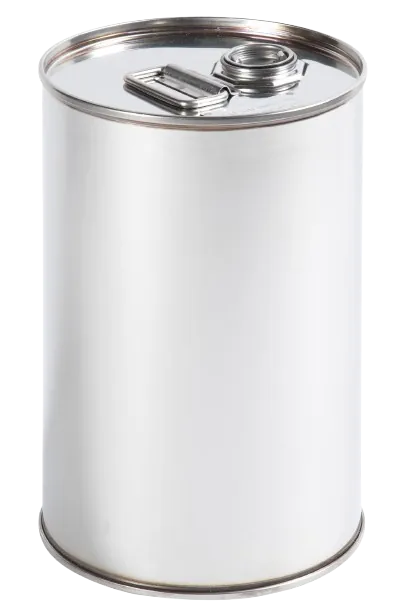
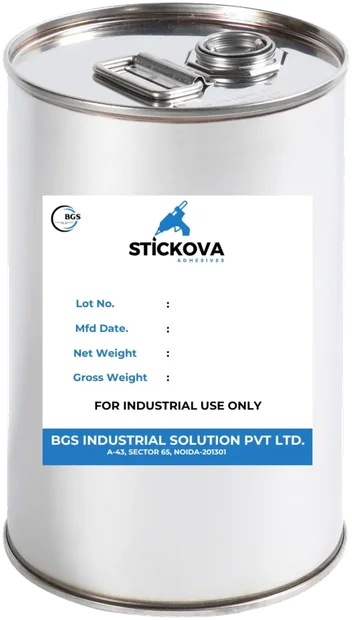
New product photos: Pearl, Ruby, Sapphire bags; add StickoStrong Amber; real tin and drum containers

diff --git a/assets/js/data.js b/assets/js/data.js
@@ -51,10 +51,26 @@ BGS.products = [
     description:
       "STICKOSTRONG PEARL is a grey, high polymer modified, cement based tile adhesive suitable for fixing tiles, natural stones and vitrified tiles in interior and exterior situations.",
     applications: ["New flooring only", "Interiors", "Dry & wet areas", "Parking areas"],
-    highlights: ["Grey, cement based", "High polymer modified", "Vitrified & natural stone"],
+    highlights: ["C1T · Type 1", "Floor pasting", "Grey, high polymer modified", "Vitrified & natural stone"],
     shelfLife: "12 months from the date of manufacturing in unopened condition. Store in a cool and dry place.",
     packaging: ["20 KG"],
     tags: ["floor", "stone", "vitrified", "parking", "wet", "interior"],
+  },
+  {
+    id: "amber",
+    name: "StickoStrong Amber",
+    line: "StickoStrong",
+    category: "tile",
+    tagline: "High-bond adhesive for ceramic tiles on floors & walls",
+    accent: "#F28C1B",
+    media: { type: "img", src: "assets/img/amber.webp" },
+    description:
+      "STICKOSTRONG AMBER is a high bond tile adhesive from our Domestic Range, made for pasting ceramic tiles on floors and walls. It is easy to use, long lasting and high strength, and is classified C1T (Type 1).",
+    applications: ["Ceramic tiles", "Floors", "Walls", "Interior & exterior"],
+    highlights: ["C1T · Type 1", "Domestic range", "Floor & wall pasting", "Easy to use · High strength"],
+    shelfLife: "12 months from the date of manufacturing in unopened condition. Store in a cool and dry place.",
+    packaging: ["20 KG"],
+    tags: ["ceramic", "floor", "wall", "interior", "exterior", "domestic"],
   },
   {
     id: "ruby",
@@ -74,7 +90,7 @@ BGS.products = [
       "Exteriors",
       "Dry & wet areas",
     ],
-    highlights: ["Swimming pools", "Tile-on-tile", "Interior & exterior"],
+    highlights: ["C2T · Type 2", "Wall pasting", "Swimming pools", "Tile-on-tile"],
     shelfLife: "12 months from the date of manufacturing in unopened condition. Store in a cool and dry place.",
     packaging: ["20 KG"],
     tags: ["floor", "wall", "large", "stone", "pool", "tile-on-tile", "wet", "exterior", "interior"],
@@ -97,7 +113,7 @@ BGS.products = [
       "Exteriors",
       "Dry & wet areas",
     ],
-    highlights: ["White — ideal for glass mosaic", "Water & frost resistant", "Marble, granite, quartz"],
+    highlights: ["C2TE · Type 3", "Marble & granite pasting", "White — ideal for glass mosaic", "Water & frost resistant"],
     shelfLife: "12 months from the date of manufacturing in unopened condition. Store in a cool and dry place.",
     packaging: ["20 KG"],
     tags: ["floor", "wall", "large", "mosaic", "glass", "stone", "pool", "tile-on-tile", "wet", "exterior", "interior"],
@@ -199,7 +215,7 @@ BGS.products = [
     category: "wood",
     tagline: "All-round adhesive for laminates & veneer",
     accent: "#1C7ED6",
-    media: { type: "bucket", src: "assets/img/bucket.webp", code: "EZEE" },
+    media: { type: "bucket", src: "assets/img/drum.webp", code: "EZEE" },
     description:
       "STICKOBOND EZEE is a high-performance adhesive that is perfect for bonding laminates, furniture, veneer and many other materials. It is a versatile adhesive for a wide range of applications, from DIY projects to professional carpentry and furniture making.",
     applications: ["Laminates", "Wood", "Plywood", "Other material"],
@@ -215,7 +231,7 @@ BGS.products = [
     category: "wood",
     tagline: "High-strength, fast-drying wood adhesive",
     accent: "#1C7ED6",
-    media: { type: "bucket", src: "assets/img/bucket.webp", code: "SUPER" },
+    media: { type: "bucket", src: "assets/img/drum.webp", code: "SUPER" },
     description:
       "STICKOBOND SUPER is a high-strength, fast drying synthetic adhesive, primarily used for bonding wood, plywood, laminates and other materials.",
     applications: ["Laminates", "Wood", "Plywood", "Other material"],
@@ -231,7 +247,7 @@ BGS.products = [
     category: "wood",
     tagline: "Pro-grade adhesive for furniture making",
     accent: "#1C7ED6",
-    media: { type: "bucket", src: "assets/img/bucket.webp", code: "SUPER PLUS" },
+    media: { type: "bucket", src: "assets/img/drum.webp", code: "SUPER PLUS" },
     description:
       "STICKOBOND SUPER PLUS is a high-strength, fast drying synthetic adhesive, primarily used for bonding wood, plywood, laminates and other materials — built for furniture making and carpentry.",
     applications: ["Laminates", "Wood", "Plywood", "Furniture making", "Carpentry", "Other material"],

diff --git a/assets/css/style.css b/assets/css/style.css
@@ -455,15 +455,15 @@ html.is-loading body > :not(.loader) { visibility: hidden; }
 .add-btn.is-added svg { transform: rotate(360deg); }
 
 /* Pack mock-ups */
-.pack { position: relative; height: 100%; max-height: 100%; aspect-ratio: 408 / 612; transition: transform 0.8s var(--ease); filter: drop-shadow(0 18px 22px rgba(16, 24, 40, 0.22)); }
-.pack > img { width: 100%; height: 100%; object-fit: contain; }
-.pack__label { position: absolute; left: 13%; right: 13%; top: 34%; bottom: 22%; background: #fff; border-radius: 4px; display: flex; flex-direction: column; align-items: center; justify-content: center; gap: 4%; text-align: center; overflow: hidden; container-type: inline-size; padding-bottom: 17%; box-shadow: inset 8px 0 10px -8px rgba(0, 0, 0, 0.25), inset -8px 0 10px -8px rgba(0, 0, 0, 0.25); }
-.pack--bucket .pack__label { left: 14%; right: 14%; top: 30%; bottom: 20%; }
-.pack__label img { width: 34%; }
-.pack__brand { font-family: var(--font-display); font-weight: 800; font-size: 11cqi; color: #0a0f1a; letter-spacing: -0.02em; line-height: 1; }
-.pack__code { font-family: var(--font-display); font-weight: 700; font-size: 10cqi; color: var(--blue); line-height: 1.05; padding-inline: 6%; }
-.pack__strip { position: absolute; left: 0; right: 0; bottom: 0; height: 15%; background: var(--blue); }
-.pack__fr { font-size: 6cqi; font-weight: 700; letter-spacing: 0.1em; color: #fff; background: #0a0f1a; padding: 1.5% 5%; border-radius: 3px; }
+.pack { position: relative; height: 100%; max-height: 100%; aspect-ratio: 352 / 620; transition: transform 0.8s var(--ease); filter: drop-shadow(0 18px 22px rgba(16, 24, 40, 0.22)); }
+.pack--bucket { aspect-ratio: 406 / 620; }
+.pack > img { position: absolute; inset: 0; width: 100%; height: 100%; object-fit: contain; }
+/* sits over the blank "Lot No / Mfd" fields of the real label */
+.pack__label { position: absolute; left: 13%; right: 12.5%; top: 46.5%; bottom: 31.5%; background: #fff; display: flex; flex-direction: column; align-items: center; justify-content: center; gap: 5%; text-align: center; overflow: hidden; container-type: inline-size; }
+.pack--bucket .pack__label { left: 23.5%; right: 23%; top: 49.5%; bottom: 33%; }
+.pack__brand { font-family: var(--font-display); font-weight: 800; font-size: 10cqi; color: #0a0f1a; letter-spacing: 0.04em; line-height: 1; }
+.pack__code { font-family: var(--font-display); font-weight: 800; font-size: 15cqi; color: #1f78c8; line-height: 1.05; padding-inline: 6%; }
+.pack__fr { font-size: 6.5cqi; font-weight: 700; letter-spacing: 0.1em; color: #fff; background: #0a0f1a; padding: 1.5% 5%; border-radius: 3px; }
 
 /* ---------- Tools (finder + calculator) ---------- */
 .tools { background: var(--surface); border: 1px solid var(--line); border-radius: var(--radius-lg); box-shadow: var(--shadow); overflow: hidden; }

diff --git a/index.html b/index.html
@@ -57,7 +57,7 @@
           </div>
           <div class="hero__trust reveal" style="--d:.58s">
             <div><strong><span data-count="70">70</span>+</strong><span>Years of group legacy</span></div>
-            <div><strong data-count="11">11</strong><span>Specialised products</span></div>
+            <div><strong data-count="12">12</strong><span>Specialised products</span></div>
             <div><strong data-count="9">9</strong><span>Industries served</span></div>
           </div>
         </div>
@@ -146,7 +146,7 @@
               <h3 style="margin-top:14px">White / Wood Adhesives</h3>
               <p>Laminates, plywood, veneer and furniture — from DIY to professional carpentry.</p>
             </div>
-            <img class="cat__media" src="assets/img/bucket.webp" alt="" loading="lazy" aria-hidden="true" />
+            <img class="cat__media" src="assets/img/drum.webp" alt="" loading="lazy" aria-hidden="true" />
             <div class="cat__foot">
               <span class="cat__count" data-cat-count="wood">3 products</span>
               <span class="cat__go"><svg viewBox="0 0 24 24" fill="none" stroke="currentColor" stroke-width="2" stroke-linecap="round" stroke-linejoin="round" aria-hidden="true"><path d="M5 12h14M13 6l6 6-6 6"/></svg></span>
@@ -247,7 +247,7 @@
           </div>
           <div class="reveal" style="display:grid;gap:20px;justify-items:start">
             <p class="lead">Every Stickova product is evaluated for performance, consistency and application suitability before it reaches you.</p>
-            <a class="link-arrow" href="products.html">View all 11 products <svg viewBox="0 0 24 24" fill="none" stroke="currentColor" stroke-width="2" stroke-linecap="round" stroke-linejoin="round" aria-hidden="true"><path d="M5 12h14M13 6l6 6-6 6"/></svg></a>
+            <a class="link-arrow" href="products.html">View all 12 products <svg viewBox="0 0 24 24" fill="none" stroke="currentColor" stroke-width="2" stroke-linecap="round" stroke-linejoin="round" aria-hidden="true"><path d="M5 12h14M13 6l6 6-6 6"/></svg></a>
           </div>
         </div>
         <div class="grid-products" id="featuredProducts"></div>

diff --git a/about.html b/about.html
@@ -53,7 +53,7 @@
         <div class="stats reveal">
           <div class="stat"><strong><span data-count="70">70</span><em>+</em></strong><span>Years of group legacy</span></div>
           <div class="stat"><strong data-count="3">3</strong><span>Adhesive families</span></div>
-          <div class="stat"><strong data-count="11">11</strong><span>Specialised products</span></div>
+          <div class="stat"><strong data-count="12">12</strong><span>Specialised products</span></div>
           <div class="stat"><strong data-count="9">9</strong><span>Industries served</span></div>
         </div>
       </div>

diff --git a/sw.js b/sw.js
@@ -2,7 +2,7 @@
    Pages: network first (fresh content), fall back to cache.
    Assets: cache first, refreshed in the background.
    Bump VERSION whenever you deploy changes to CSS/JS/images. */
-const VERSION = "bgs-v6";
+const VERSION = "bgs-v7";
 const CORE = [
   "./",
   "index.html",
@@ -24,7 +24,8 @@ const CORE = [
   "assets/img/sapphire.webp",
   "assets/img/tile-grout.webp",
   "assets/img/tin.webp",
-  "assets/img/bucket.webp",
+  "assets/img/drum.webp",
+  "assets/img/amber.webp",
   "assets/img/gaurav-khanna.webp",
   "assets/img/bharat-khanna.webp",
 ];

diff --git a/assets/js/main.js b/assets/js/main.js
@@ -432,11 +432,9 @@
       <div class="pack pack--${m.type}">
         <img src="${m.src}" alt="${esc(p.name)} pack" loading="${load}" decoding="async" />
         <div class="pack__label" aria-hidden="true">
-          <img src="assets/img/stickova-logo.png" alt="" loading="lazy" />
           <span class="pack__brand">STICKOBOND</span>
           <span class="pack__code">${esc(m.code)}</span>
           ${m.fr ? '<span class="pack__fr">FR GRADE</span>' : ""}
-          <span class="pack__strip"></span>
         </div>
       </div>`;
   }
